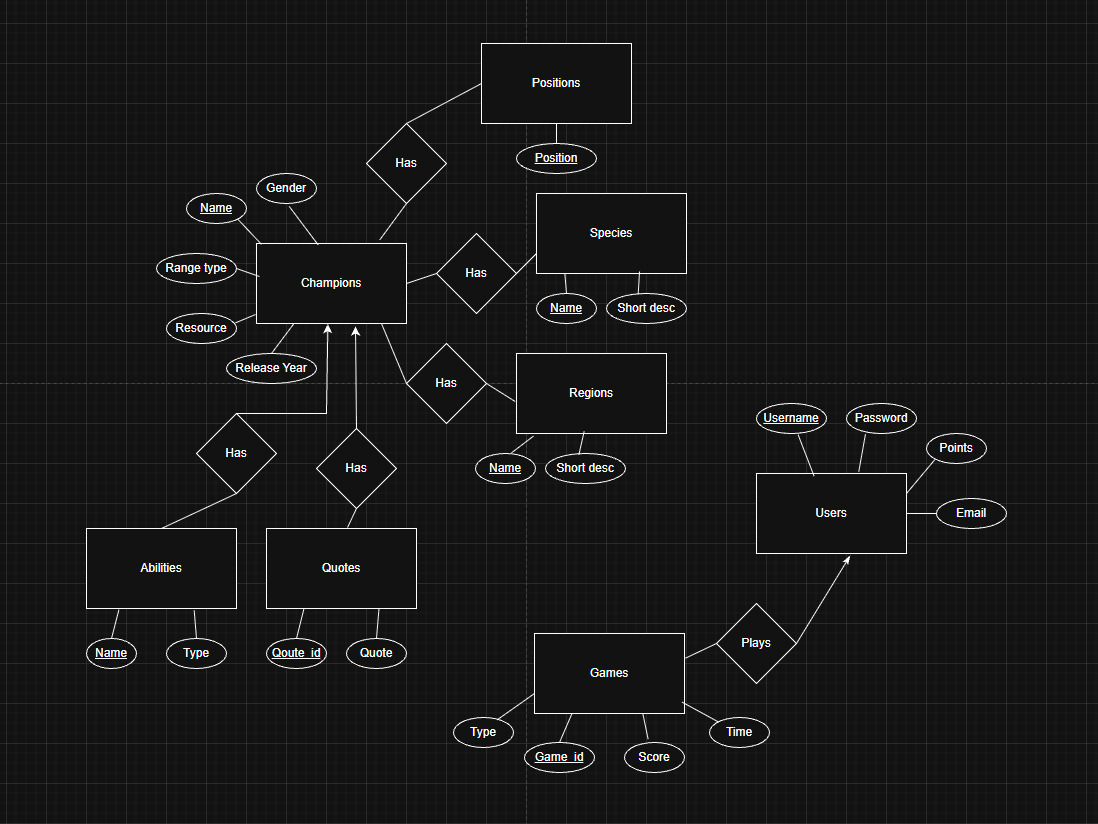
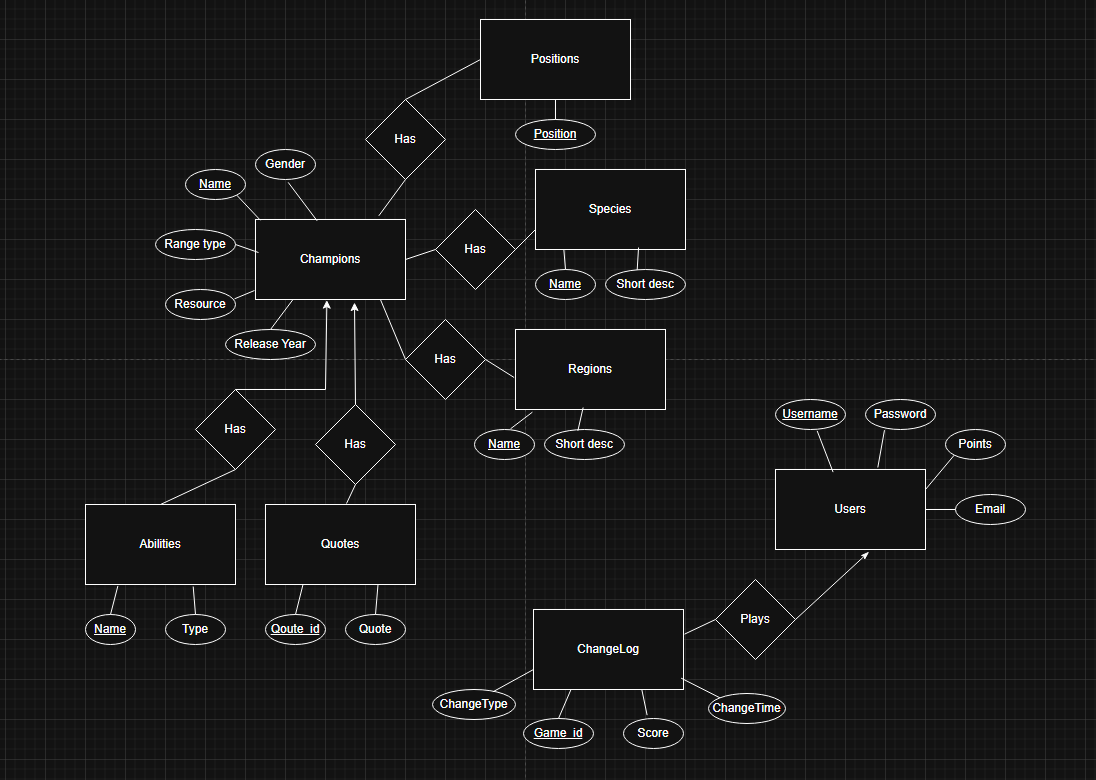
added a trigger to Schema, some redesigning on the ER-diagram and fixed some bugs with the DB-tool

diff --git a/DBTool/main.py b/DBTool/main.py
@@ -74,19 +74,18 @@ class App(customtkinter.CTk):
             
 
             self.mydb = mysql.connector.connect(
-                host= selected_host,
-                user= self.login_entry_user.get(),
-                passwd= self.login_entry_pass.get()
+                host= HOST, #selected_host,
+                user= USER, #self.login_entry_user.get(),
+                passwd= PASSWORD, #self.login_entry_pass.get()
             )
 
             self.login_entry_user.delete(0, "end")
             self.login_entry_pass.delete(0, "end")
-            print("Connection made!")
 
             # Setup for main screen
             self.cursor = self.mydb.cursor()
 
-            self.cursor.execute("USE " + self.login_entry_name.get())
+            self.cursor.execute("USE " + NAME) #self.login_entry_name.get())
             self.cursor.execute("SHOW TABLES")
 
             for element in self.cursor.fetchall():
@@ -116,7 +115,7 @@ class App(customtkinter.CTk):
 
     def main_insert_button_callback(self):
         self.insert_popup_window = customtkinter.CTkToplevel(self)
-        self.insert_popup_window.title("Modify")
+        self.insert_popup_window.title("Insert")
         self.insert_popup_window.geometry("300x500")
         self.insert_popup_window.transient(self)
 
@@ -142,7 +141,7 @@ class App(customtkinter.CTk):
     def insert(self):
         new_data = []
         for entry in self.insert_entries:
-            new_data.append((entry.get()))
+            new_data.append("'" + entry.get() + "'")
 
         attributes = []
         for attr in self.selected_table_header:
@@ -185,7 +184,7 @@ class App(customtkinter.CTk):
 
     def main_remove_button_callback(self):
         self.remove_popup_window = customtkinter.CTkToplevel(self)
-        self.remove_popup_window.title("Modify")
+        self.remove_popup_window.title("Remove")
         self.remove_popup_window.geometry("400x100")
         self.remove_popup_window.transient(self)
 
@@ -241,8 +240,10 @@ class App(customtkinter.CTk):
 
         for column in columnData:
             self.cursor.execute("SELECT MAX(CHAR_LENGTH(" + column[0] + ")) FROM " + self.selected_table.get() + ";")
-            length = self.cursor.fetchall()[0][0]
-            if len(column[0]) > length:
+            test = self.cursor.fetchall()
+            length = test[0][0]
+            
+            if length == None or len(column[0]) > length:
                 length = len(column[0])
 
 
@@ -258,7 +259,7 @@ class App(customtkinter.CTk):
         self.cursor.execute("SELECT * FROM " + choice)
         self.selected_table_data = self.cursor.fetchall()
 
-        current_col_amount = len(self.selected_table_data[0])
+        current_col_amount = len(self.selected_table_header)
         current_row_amount = len(self.selected_table_data)
 
         for i in range(current_col_amount):
